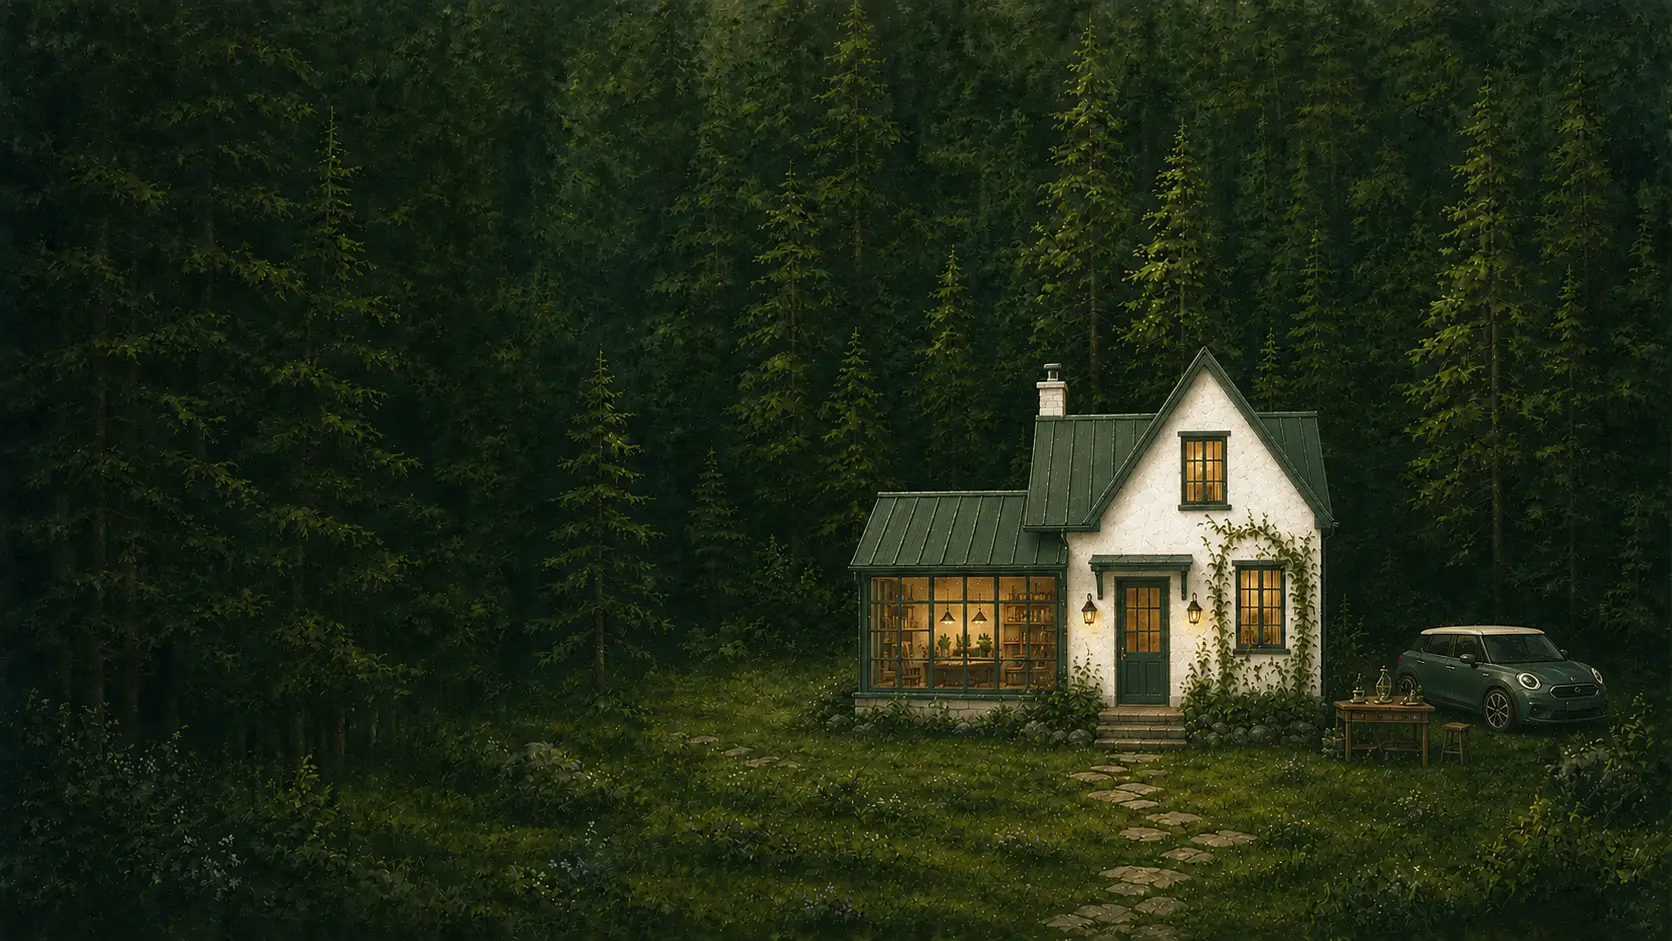
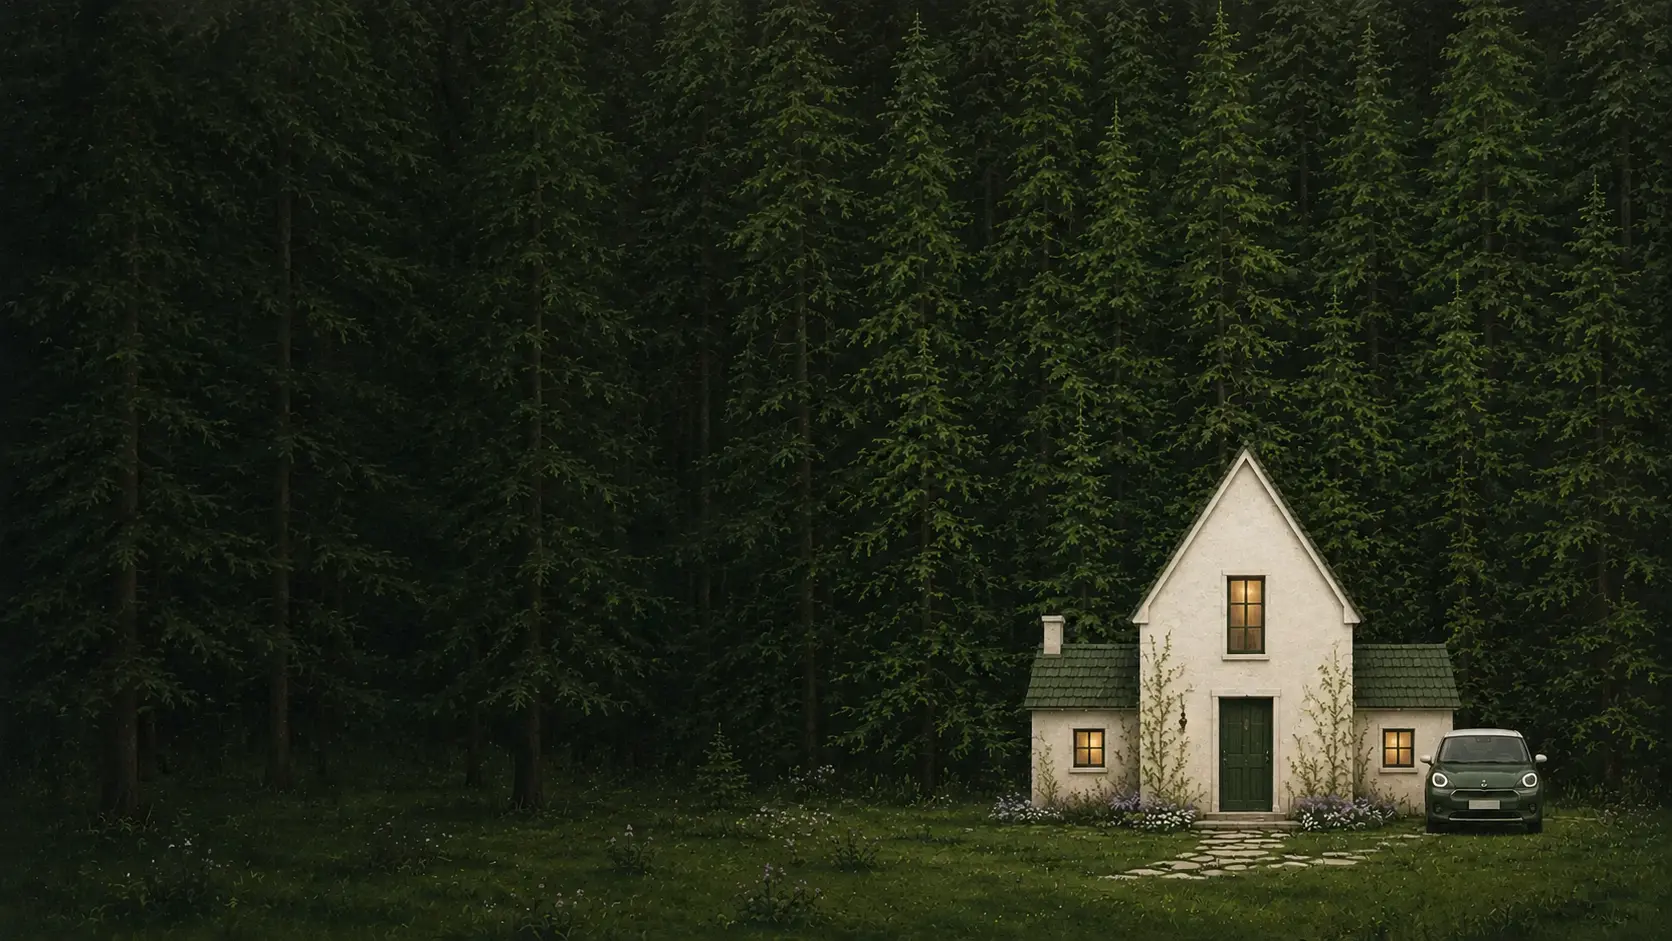
Preview cathedral-inspired cottage and painted garden

diff --git a/preview-assets/storybook.css b/preview-assets/storybook.css
@@ -1695,3 +1695,38 @@ body.storybook-site footer a {
     transform: none;
   }
 }
+
+
+/* Painterly garden close */
+.storybook-garden {
+  height: clamp(180px, 24vw, 290px);
+  margin-top: -1px;
+  border-bottom: 1px solid rgba(239, 231, 199, 0.16);
+  background: #fbf7e8;
+  isolation: isolate;
+}
+.storybook-garden::before { display: none; }
+.storybook-garden::after {
+  content: "";
+  position: absolute;
+  inset: 0;
+  z-index: 2;
+  background: url("forest-garden-objects.webp") center bottom / 100% auto no-repeat;
+  mix-blend-mode: multiply;
+  opacity: 0.94;
+  transform-origin: 50% 100%;
+  animation: storybook-garden-breathe 8s ease-in-out infinite alternate;
+}
+.storybook-garden > * { display: none !important; }
+body.storybook-home .storybook-garden { margin-top: -1px; }
+@keyframes storybook-garden-breathe {
+  from { transform: translateY(3px) scale(1); }
+  to { transform: translateY(0) scale(1.003); }
+}
+@media (max-width: 575px) {
+  .storybook-garden { height: 185px; }
+  .storybook-garden::after { background-size: auto 100%; }
+}
+@media (prefers-reduced-motion: reduce) {
+  .storybook-garden::after { animation: none !important; }
+}
